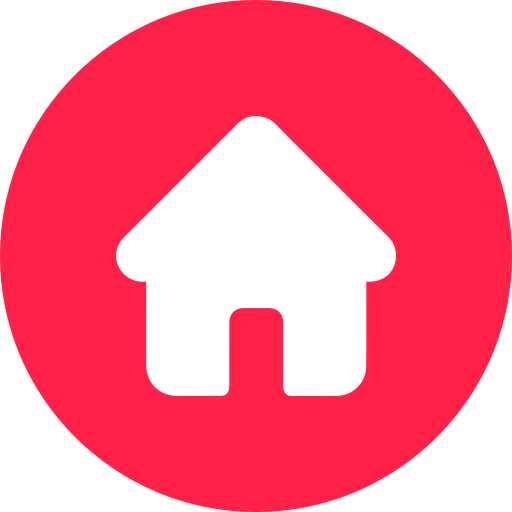
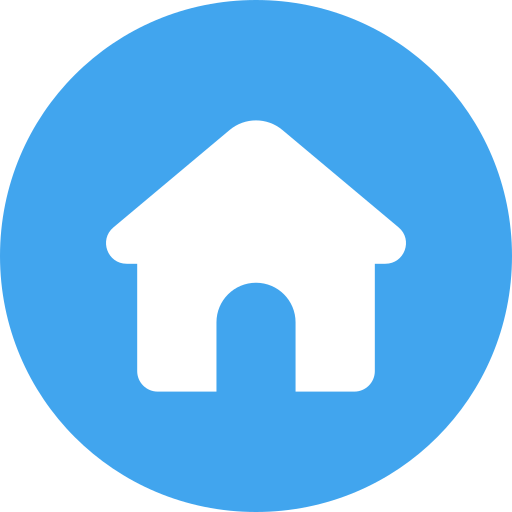
game finished

diff --git a/css/game-style.css b/css/game-style.css
@@ -15,7 +15,7 @@
   font-size: 1.2rem;
   left: 50%;
   top: 15px;
-  transform: translateX(-50%); /* Centre horizontalement */
+  transform: translateX(-50%);
 }
 
 .life {
@@ -26,6 +26,15 @@
 }
 
 .home-icon {
+  position: absolute;
+  width: 27px;
+  right: 55px;
+  top: 10px;
+  border-radius: 50%;
+  border: 1px solid white;
+}
+
+.characters-icon {
   position: absolute;
   width: 27px;
   right: 20px;
@@ -71,7 +80,51 @@ body {
 .falling-object {
   position: absolute;
   top: 0;
-  width: 40px;
-  height: 40px;
-  filter: drop-shadow(0 0.2rem 0.25rem rgba(250, 171, 0, 0.836));
+  width: 35px;
+  filter: drop-shadow(0 0.2rem 0.25rem rgba(250, 171, 0, 0.8));
+}
+
+/* Ecran de fin */
+
+.game-over {
+  position: fixed;
+  top: 50%;
+  left: 50%;
+  transform: translate(-50%, -50%);
+  text-align: center;
+  background-color: rgba(0, 0, 0, 0.8);
+  color: white;
+  padding: 20px;
+  border-radius: 10px;
+  box-shadow: 0 4px 10px rgba(0, 0, 0, 0.5);
+}
+
+.game-over h1 {
+  display: flex;
+  justify-content: center;
+  font-size: 2rem;
+  color: #c0d4f9;
+}
+
+.game-over p {
+  font-size: 2rem;
+  margin-bottom: 1rem;
+}
+
+.game-over button {
+  box-shadow: rgba(235, 234, 234, 0.3) 0px 5px 8px,
+    rgba(218, 218, 218, 0.22) 0px 5px 2px;
+  background-color: #c0d4f9;
+  border: 3px solid #5678c8;
+  color: #042c5d;
+  border-radius: 15px;
+  width: 70%;
+  height: 10%;
+  font-size: 1rem;
+  transition: transform 0.2s;
+  cursor: pointer;
+}
+
+.game-over button:hover {
+  transform: scale(1.05);
 }

diff --git a/css/characters-style.css b/css/characters-style.css
@@ -20,8 +20,7 @@ body {
   justify-content: center;
   width: 400px;
   height: 500px;
-  background-color: rgb(221, 154, 180);
-  /* border: 1px solid rgb(55, 0, 71); */
+  background-color: #80a6f0;
   border-radius: 10px;
   box-shadow: rgba(99, 99, 99) 0px 2px 8px 0px;
   overflow: hidden;
@@ -31,12 +30,12 @@ body {
   margin-bottom: 0.9rem;
   width: 94%;
   height: 88%;
-  border: 3px solid rgb(64, 16, 78);
+  border: 3px solid #042c5d;
   border-radius: 5px;
-  background-image: url(../assets/game-area-background.jpg);
-  background-size: 250%;
-  background-position: center;
+  background-image: url(../assets/blue-background.png);
+  background-size: cover;
   background-repeat: no-repeat;
+  background-position: bottom center;
 }
 
 .game-title {
@@ -44,7 +43,7 @@ body {
   text-transform: uppercase;
   top: 7px;
   font-size: 1.5rem;
-  color: #4a3f55;
+  color: #042c5d;
 }
 
 .home__choice-text {
@@ -53,17 +52,19 @@ body {
   padding-top: 1rem;
   padding-bottom: 1.5rem;
   font-size: 2rem;
+  color: #c0d4f9;
 }
 
 .player-content {
-  display: grid;
-  justify-items: center;
+  display: flex;
   grid-template-columns: repeat(2, 1fr);
-  gap: 1rem;
+  gap: 1.5rem;
+  justify-content: center;
+  flex-wrap: wrap;
 }
 
 .player-content img {
-  filter: drop-shadow(0.1rem 0.2rem 0.5rem rgba(252, 229, 184, 0.9));
+  filter: drop-shadow(0.1rem 0.2rem 0.5rem rgb(192, 212, 249, 0.8));
 
   width: 150px;
   height: auto;

diff --git a/css/style.css b/css/style.css
@@ -21,7 +21,6 @@ body {
   width: 400px;
   height: 500px;
   background-color: rgb(221, 154, 180);
-  /* border: 1px solid rgb(55, 0, 71); */
   border-radius: 10px;
   box-shadow: rgba(99, 99, 99) 0px 2px 8px 0px;
   overflow: hidden;
@@ -56,11 +55,11 @@ body {
   align-items: center;
   justify-content: center;
   text-decoration: none;
-  box-shadow: rgba(0, 0, 0, 0.3) 0px 19px 38px,
-    rgba(0, 0, 0, 0.22) 0px 15px 12px;
-  background-color: #ffcce7;
-  border: 4px solid #ffeb99;
-  color: #4a3f55;
+  box-shadow: rgba(235, 234, 234, 0.3) 0px 9px 38px,
+    rgba(218, 218, 218, 0.22) 0px 5px 12px;
+  background-color: #c0d4f9;
+  border: 4px solid #5678c8;
+  color: #042c5d;
   border-radius: 15px;
   width: 60%;
   height: 15%;

diff --git a/js/main.js b/js/main.js
@@ -122,7 +122,21 @@ function createFallingObjects() {
 
 function gameOver() {
   gameIsOver = true;
-  alert(`Game over... Votre score est : ${score}`);
+
+  // Afficher un écran de fin
+  const gameOverScreen = document.createElement("div");
+  gameOverScreen.classList.add("game-over");
+  gameOverScreen.innerHTML = `
+  <h1>Game over</h1>
+  <p>Final score : <strong>${score}</strong></p>
+  <button onclick = "restartGame()">Play again</button>`;
+
+  // Ajouter l'écran au body
+  document.body.appendChild(gameOverScreen);
+}
+
+// Pour rejouer
+function restartGame() {
   window.location.reload();
 }
 

diff --git a/html/characters.html b/html/characters.html
@@ -11,6 +11,15 @@
   <body>
     <div class="home">
       <div class="game-title">Catch the moon</div>
+      <a href="../html/index.html"
+        ><img src="../assets/home-icon.png" alt="home icon" class="home-icon"
+      /></a>
+      <a href="../html/characters.html"
+        ><img
+          src="../assets/characters-icon.png"
+          alt="characters icon"
+          class="characters-icon"
+      /></a>
       <div class="game-area">
         <div class="home__choice-text">Choose your character</div>
         <div class="player-content">

diff --git a/html/game.html b/html/game.html
@@ -11,8 +11,14 @@
   </head>
   <body>
     <div class="home">
-      <a href="../html/characters.html"
+      <a href="../html/index.html"
         ><img src="../assets/home-icon.png" alt="home icon" class="home-icon"
+      /></a>
+      <a href="../html/characters.html"
+        ><img
+          src="../assets/characters-icon.png"
+          alt="characters icon"
+          class="characters-icon"
       /></a>
       <div class="score">Score : 0</div>
       <div class="life">Life : ❤❤❤</div>

diff --git a/README.md b/README.md
@@ -1,1 +1,61 @@
-# Catch the moon Game
+# 🌙 **Catch the Moon**
+
+_Un mini-jeu d'arcade en JavaScript vanilla_
+
+Attrapez des étoiles avec votre animal préféré. Développé en **HTML, CSS et JavaScript pur**, ce projet m'a permis d'explorer des concepts clés du développement web tout en créant une expérience ludique.
+
+---
+
+## � **Comment jouer ?**
+
+1. **Choisissez votre personnage** parmi 4 animaux mignons.
+2. **Déplacez-vous avec les flèches ← → du clavier** pour attraper les étoiles qui tombent.
+3. **Marquez des points** à chaque étoile attrapée, mais **perdez une vie** si vous en loupez une !
+4. **Game Over** quand les 3 vies sont épuisées.
+
+![Visuel du jeu](/assets/screen-visuel.png "Visuel du jeu")
+
+---
+
+## 💡 **Fonctionnalités techniques**
+
+✅ **Navigation multi-pages** (accueil → sélection → jeu)  
+✅ **Transfert de données** via `URLSearchParams` (perso choisi)  
+✅ **Système dynamique** :
+
+- Génération aléatoire d'étoiles avec `setInterval`
+- Calcul du score et gestion des vies
+- Écran de fin de partie ("Game Over")
+
+✅ **Animations CSS/JS** pour les déplacements et chutes d'objets
+
+---
+
+## � **Compétences pratiquées**
+
+⌨ **Manipulation du DOM** :
+
+- `querySelector`, `addEventListener`
+- Création dynamique d'éléments (étoiles, écrans)
+
+🔄 **Gestion d'état** :
+
+- Score, vies, paramètres de jeu
+
+📦 **Architecture multi-pages**
+
+🎨 **Animations basiques** sans librairie
+
+---
+
+## 🛠 **Technologies**
+
+![HTML5](https://img.shields.io/badge/HTML5-E34F26?style=flat&logo=html5&logoColor=white)  
+![CSS3](https://img.shields.io/badge/CSS3-1572B6?style=flat&logo=css3&logoColor=white)  
+![JavaScript](https://img.shields.io/badge/JavaScript-F7DF1E?style=flat&logo=javascript&logoColor=black)
+
+---
+
+### 🔗 **Pour explorer le code**
+
+N'hésitez pas à fouiller dans les fichiers ! La logique principale se trouve dans `main.js`.
